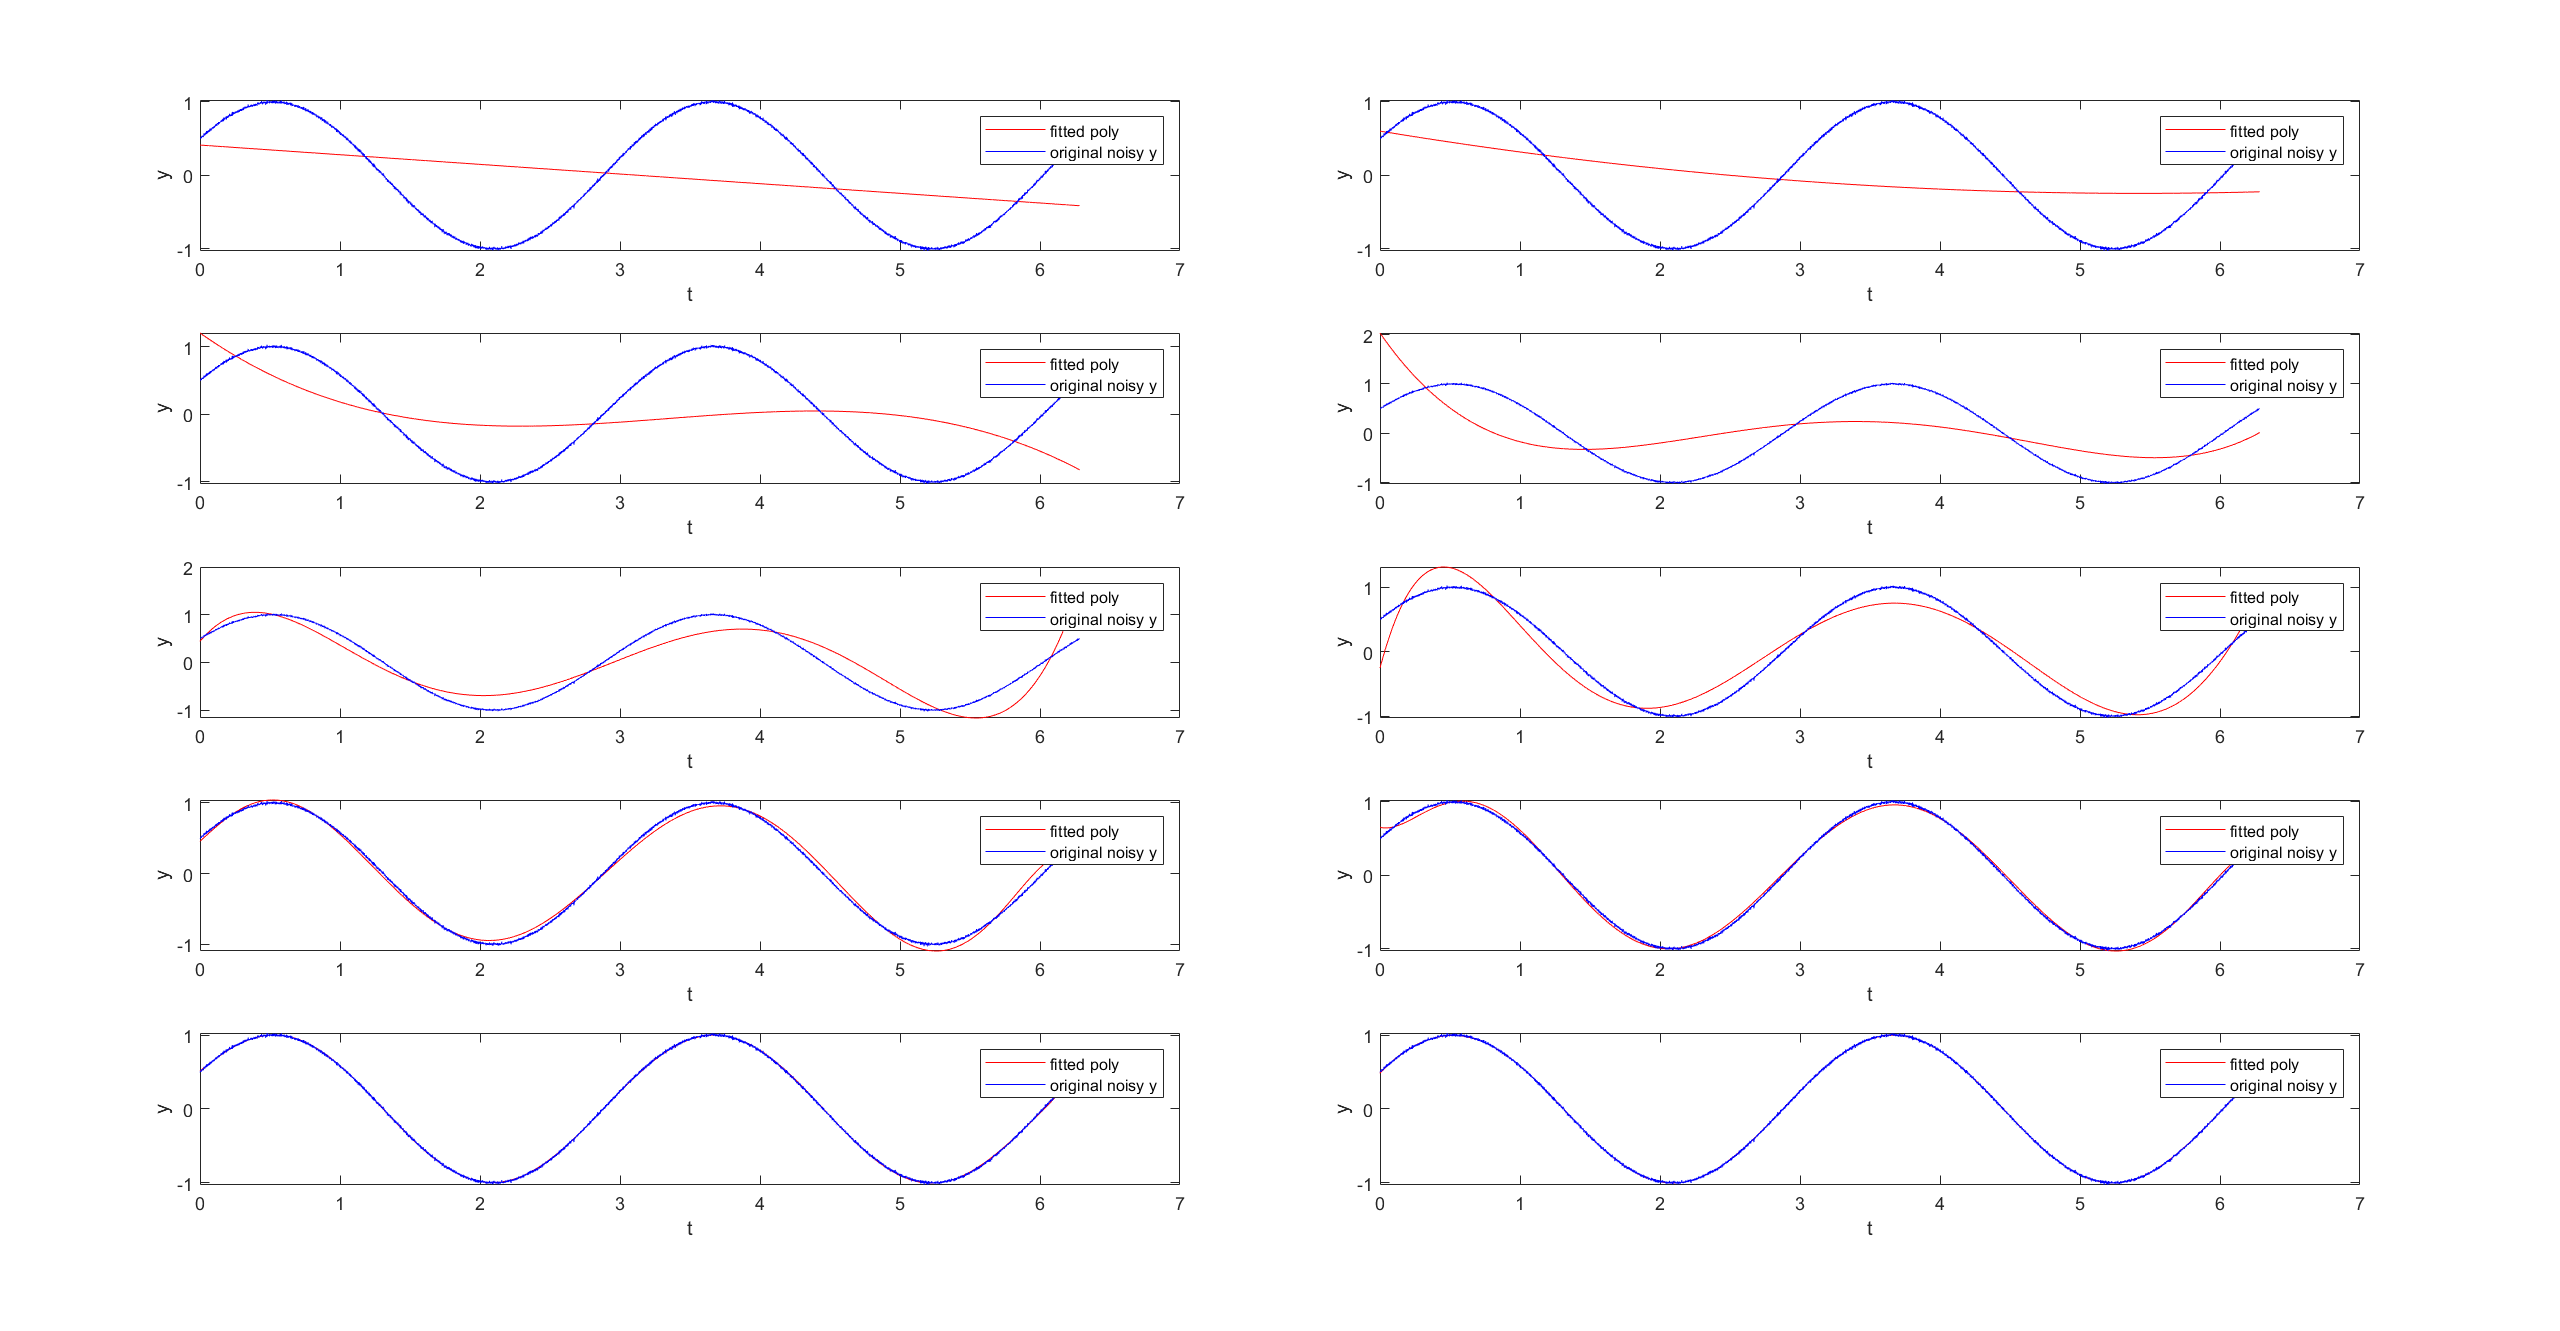
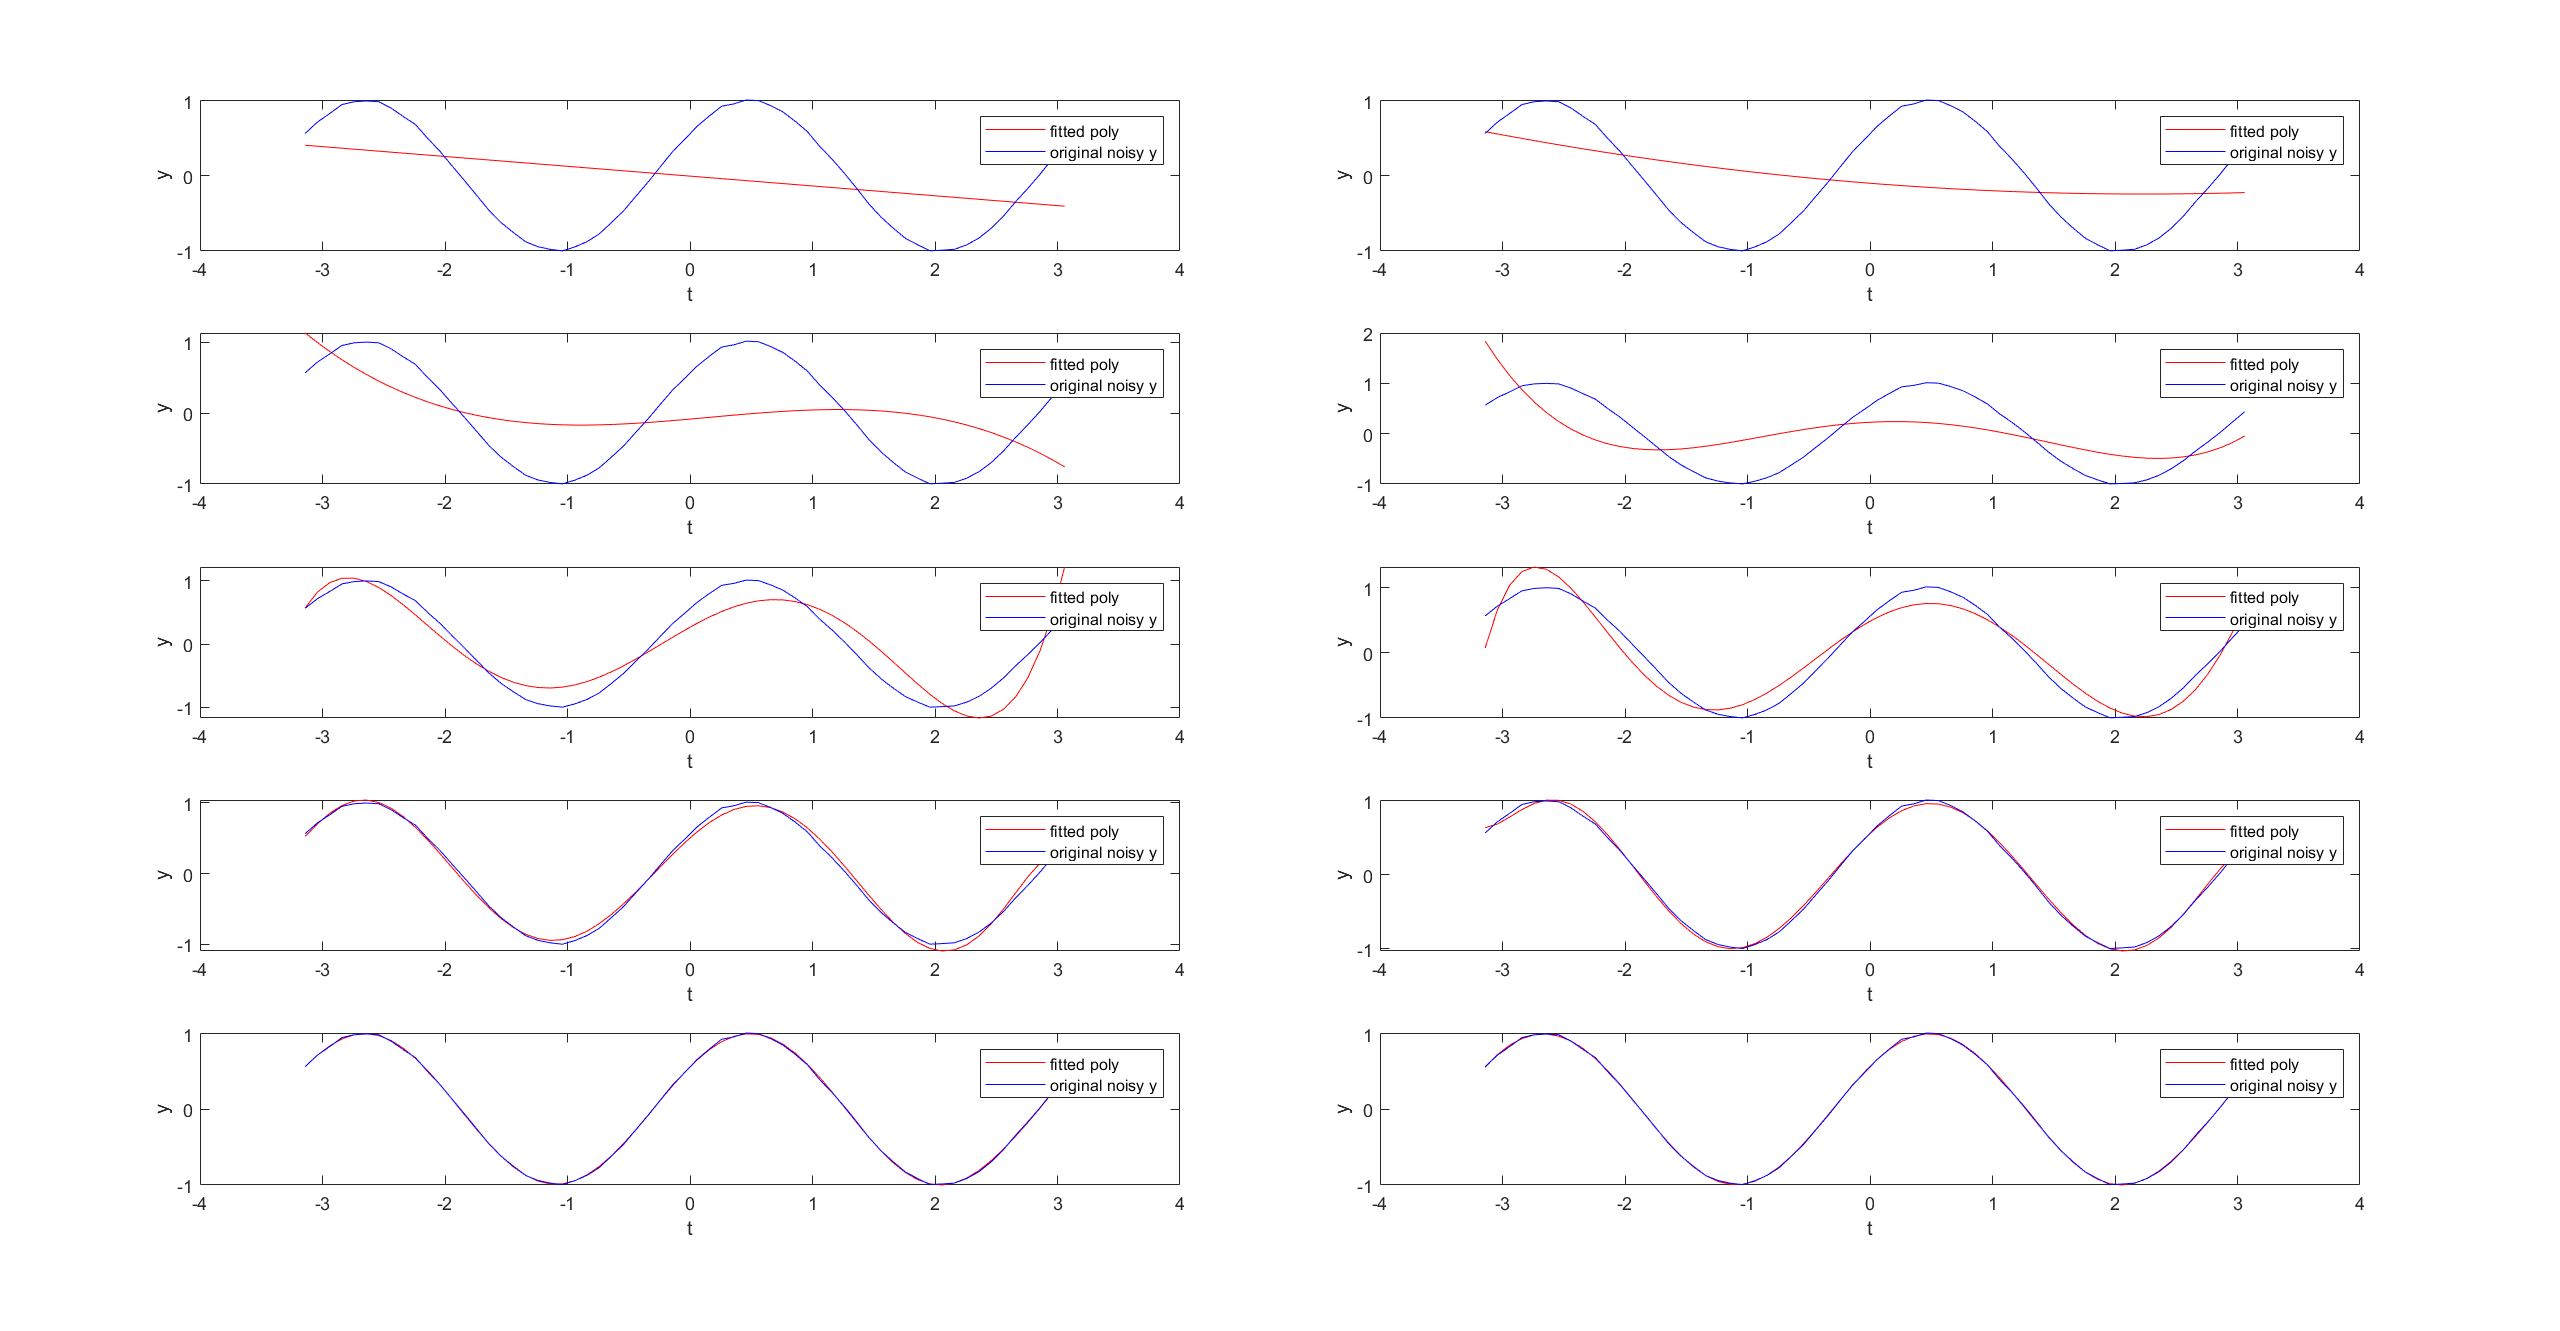
Finished main task of Part B

diff --git a/part_b.m b/part_b.m
@@ -1,7 +1,9 @@
+clear;
+clc;
+
 % QN 1
-function [fit, condition] = regress1(x, y, M, condition)
+function [fit, condition, alpha_fed] = regress(x, y, M, condition)
     % Fits and plots Mth order polynomial to data points (x, y)
-    % Plot fitted data at points described by x1
 
     % There is a MATLAB function vander(v) which automatically returns a
     % Vandermonde matrix based on x-points 'v' but that is only for square
@@ -17,32 +19,89 @@ function [fit, condition] = regress1(x, y, M, condition)
 
     V_inv = inv(V'*V)*V';   % Pseudoinverse of Vandermonde
 
-    condition(M) = cond(V'*V);
+    condition(M) = cond(V'*V);  % Record the condition number for this order
 
     % Compute polynomial coefficients
     % y is by default a row vector. Turn it into column vector
-    alpha = V_inv*y;       
+    alpha = V_inv*y;
 
+    % Find the y-values of the fitted polynomial
     fit = V*alpha;
 
+    % Return the polynomial coefficients in a consistent format
+    % Leftmost coefficient refers to highest order term
+    alpha_fed = zeros(1, 11);
+    alpha_fed(1, end-M:end) = alpha;
+end
+
+function [fit, condition] = plt(x, alpha)
+    % Plots a polynomial using Vandermonde given the coefficients of the
+    % polynomial. Leftmost coefficient is highest order term.
+
+    M = length(alpha) - 1;
+    V = zeros(length(x), M + 1);
+    % Populate Vandermonde matrix by taking integer powers of x along the
+    % columns
+    for i = 0:M
+        V(:, i+1) = x.^i;
+    end
+
+    condition = cond(V'*V);  % Record the condition number for this order
+
+    % Find the y-values of the fitted polynomial
+    fit = V*alpha;
+end
+
+% Central difference scheme y'_n = [f((n+1)h) - f((n-1)h)]/2h
+function central_diff_error_noise = central(h, t, y_noise, y_prime)
+    t_sampled_for_deriv = t(2:end-1);
+    y_prime_noise = zeros(1, length(t_sampled_for_deriv));
+
+    % Compute derivative at all points
+    % Simultaneously, compute squared error at each point
+    squared_error_noise = zeros(1, length(t_sampled_for_deriv));
+    for n = 2:length(y_prime_noise)+1
+        y_prime_noise(n-1) = (y_noise(n+1) - y_noise(n-1))./(2*h);
+        squared_error_noise(n-1) = (y_prime_noise(n-1) - y_prime(n)).^2;
+    end
+
+    figure
+    plot(t_sampled_for_deriv, y_prime_noise, 'r', t, y_prime, 'b')
+    legend('central diff', 'analytical')
+    xlabel('time')
+    ylabel("y'")
+    
+    % Compute L2/RMS error
+    central_diff_error_noise = rms_error(squared_error_noise, t_sampled_for_deriv);
+end
+
+function error = rms_error(squared_error, samples)
+    % Computes L2/RMS error given the squared error
+    sum_of_squares = sum(squared_error);
+    mean_squared = sum_of_squares/length(samples);
+    error= sqrt(mean_squared);
 end
 
 % Generate synthetic data y = sin(omega*t + phi)
-t = [0:0.001:2*pi]';
+t = [-pi:0.1:pi]';
 omega = 2.0;
+phi = 0.6;
+sigma = 0.01;
 y = sin(omega*t + phi);
+y_prime = omega*cos(omega*t + phi);
 noise = normrnd(0, sigma, [1, length(t)]);
 y_noise = y + noise';
 
-% Initialise array to store polynomial fit data and conditioning
+% Initialise array to store polynomial fit data
 M = 10;     % max polynomial order
 fits = zeros(M, length(t));
 condition = zeros(1, M);
+alphas = zeros(M, M+1);
 
 figure
 tiledlayout(5, 2)
 for m = 1:M
-    [fits(m, :), condition] = regress1(t, y_noise, m, condition);
+    [fits(m, :), condition, alphas(m, :)] = regress(t, y_noise, m, condition);
 
     nexttile
     plot(t, fits(m,:), 'r', t , y_noise, 'b')
@@ -53,12 +112,43 @@ end
 
 figure
 semilogy(1:M, condition, '-x')
-xlabel("polynomial order m")
+xlabel("polynomial degree m")
 ylabel("condition number (log-axis)")
 % QN 1
 
 % QN 2
+diff_alphas = zeros(M, M);
+diff_fits = zeros(M, length(t));
+diff_condition = zeros(1, M);
+squared_error_fitted = zeros(M, length(t));
+diff_fitted_poly_error = zeros(1, M);
+figure
+tiledlayout(5, 2)
+for m = 1:M
+    diff_alphas(:, m) = alphas(:, m) .* (10-m+1);
+    
+    use_diff_alphas = nonzeros(diff_alphas(:, m));
+    
+    [diff_fits(m, :), diff_condition(m)] = plt(t, use_diff_alphas);
 
+    for i = 1:length(t)
+        squared_error_fitted(m, i) = (diff_fits(m, i) - y_prime(i)).^2;
+    end
 
+    diff_fitted_poly_error(1, m) = rms_error(squared_error_fitted(m, 15:end-15), t(15:end-15));
+
+    nexttile
+    plot(t, diff_fits(m, :), 'r', t, y_prime, 'b')
+    legend('via poly fitting', 'analytical soln')
+    xlabel("t")
+    ylabel("y'")
+end
+
+central_diff_error = central(0.1, t, y_noise, y_prime);
+
+figure
+plot(1:M, diff_fitted_poly_error, '-x')
+xlabel("polynomial degree m")
+ylabel("RMS Error")
 
 % QN 2

diff --git a/part_a.m b/part_a.m
@@ -116,12 +116,12 @@ for i = 1:length(K)
 end
 
 figure
-tiledlayout(2, 1)
-nexttile
-loglog(K*dt, forward_diff, '-o', K*dt, backward_diff, '-x', K*dt, central_diff, '-o')
-legend('forward', 'backward', 'central')
-xlabel('h')
-ylabel('difference without noise')
+% tiledlayout(2, 1)
+% nexttile
+% loglog(K*dt, forward_diff, '-o', K*dt, backward_diff, '-x', K*dt, central_diff, '-o')
+% legend('forward', 'backward', 'central')
+% xlabel('h')
+% ylabel('difference without noise')
 nexttile
 loglog(K*dt, forward_diff_noise, '-o', K*dt, backward_diff_noise, '-x', K*dt, central_diff_noise, '-o')
 legend('forward', 'backward', 'central')
